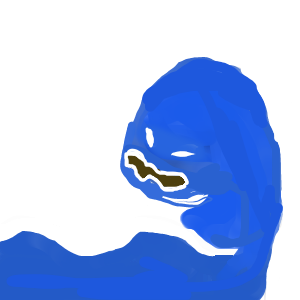
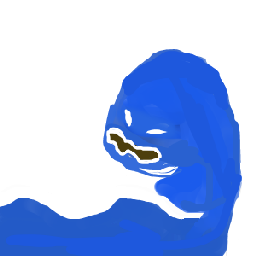
WFC now capable of reading multiple inputs
A  assets/backgrounds/overworld_tilesheet_with_numbers.png
A  assets/backgrounds/wfc_inputs/input.txt
R  assets/backgrounds/input.txt -> assets/backgrounds/wfc_inputs/input1.txt
M  assets/monsters/ember_boss.png
M  assets/monsters/ember_monster.png
M  assets/monsters/filth_monster.png
M  assets/monsters/flood_monster.png
M  assets/monsters/rad_monster.png
M  src/backgrounds.rs
M  src/battle.rs
M  src/main.rs
M  src/monster.rs
M  src/wfc.rs

diff --git a/src/wfc.rs b/src/wfc.rs
@@ -1,14 +1,17 @@
+use bevy::prelude::FromWorld;
 use bevy::prelude::info;
+use bevy::prelude::warn;
 use rand::distributions::WeightedIndex;
 use rand::prelude::Distribution;
 //use colored::Colorize;
 use rand::seq::SliceRandom;
 use std::collections::HashMap;
+use std::hash::Hash;
 // use std::env;
 use std::ops::Index;
 use std::ops::IndexMut;
 use std::thread;
-use std::{fs::File, io::Read};
+use std::{fs::File, fs::read_dir, io::Read};
 
 use rand::thread_rng;
 
@@ -21,16 +24,40 @@ use crate::backgrounds::{
 
 const MAX_REPICK_ATTEMPTS: usize = 20;
 
-//@param
-//required: filename of seeding textfile
-pub(crate) fn rulegen(infile: &str) -> HashMap<usize, Rule> {
+/// Resource to hold game-wide memory-resident information for procedural generation
+pub(crate) struct ProcGen {
+    /// Rules generated by initial rule generation
+    pub(crate) rules: HashMap<usize, Rule>,
+    // /// Tile frequencies generated by initial rule generation
+    // pub(crate) freqs: HashMap<usize, usize>
+}
+
+impl Default for ProcGen {
+    fn default() -> Self {
+        Self { rules: init_rules() }
+    }
+}
+
+/// Initialize rules by reading every input file in the directory
+/// 'assets/backgrounds/wfc_inpits/' and running rulegen on them.
+pub(crate) fn init_rules() -> HashMap<usize, Rule> {
+    let all_inputs = read_dir("assets/backgrounds/wfc_inputs").unwrap();
+    let mut freqs: HashMap<usize, usize> = HashMap::new();
+    let mut rules: HashMap<usize, Rule> = HashMap::new();
+
+    // Check all inputs
+    for input_file in all_inputs.into_iter() {
+        // Run rulegen on the input file given
+        rulegen(input_file.unwrap().path().to_str().unwrap(), &mut rules, &mut freqs);
+    }
+
+    rules
+}
+/// Apply rulegeneration to given rule and frequency set based on input read from infile
+pub(crate) fn rulegen(infile: &str, rules: &mut HashMap<usize, Rule>, freqs: &mut HashMap<usize, usize>) {
     let mut file = File::open(infile).unwrap();
     let mut contents = String::new();
     file.read_to_string(&mut contents).unwrap();
-
-    // Initialize tile and rulebook information
-    let mut freqs: HashMap<usize, usize> = HashMap::new();
-    let mut rules: HashMap<usize, Rule> = HashMap::new();
 
     // Board input is a text file of usize indexes used to map to a tile index in
     // the texture atlas
@@ -140,14 +167,12 @@ pub(crate) fn rulegen(infile: &str) -> HashMap<usize, Rule> {
     }
 
     //println!("rulegen done \n {:?}", rules);
-
-    rules
 }
 
 /// Generate a fixed (map) sized screen using wave function collapse
 /// and return a 2D vector of indexes into the texture atlas.
-pub(crate) fn wfc(seeding: Option<Vec<(usize, (usize, usize))>>) -> Vec<Vec<usize>> {
-    let rules = rulegen("assets/backgrounds/input.txt");
+pub(crate) fn wfc(seeding: Option<Vec<(usize, (usize, usize))>>, rules: HashMap<usize, Rule>) -> Vec<Vec<usize>> {
+    // let rules = rulegen("assets/backgrounds/wfc_inputs/input.txt");
 
     // Create the board with a specific height and width
     // (HEIGHT COMES FIRST because ROW MAJOR order)
@@ -196,6 +221,7 @@ pub(crate) fn wfc(seeding: Option<Vec<(usize, (usize, usize))>>) -> Vec<Vec<usiz
                 }
 
                 attempts += 1;
+                warn!("WFC could not collapse. Retrying, attempt {}.", attempts+1);
             }
 
             // Put the board contents into the result

diff --git a/src/backgrounds.rs b/src/backgrounds.rs
@@ -1,5 +1,5 @@
 use crate::player::{Player};
-use crate::wfc::wfc;
+use crate::wfc::{wfc, ProcGen};
 use bevy::prelude::*;
 use crate::world::{WorldMap, logical_to_rendering};
 
@@ -111,11 +111,14 @@ pub(crate) fn init_background(
     asset_server: Res<AssetServer>,
     mut texture_atlases: ResMut<Assets<TextureAtlas>>,
     mut world: ResMut<WorldMap>,
+    procgen: Res<ProcGen>,
 ) {
+
+    let rules = procgen.rules.clone();
 
     let starting_chunk = Chunk{
         position: (0, 0),
-        tiles: wfc(None),
+        tiles: wfc(None, rules),
     };
 
     let map_handle = asset_server.load(OVERWORLD_TILESHEET);
@@ -134,12 +137,15 @@ pub(crate) fn expand_map(
     asset_server: Res<AssetServer>,
     mut texture_atlases: ResMut<Assets<TextureAtlas>>,
     mut world: ResMut<WorldMap>,
+    procgen: Res<ProcGen>,
     mut player_query: Query<&mut Player>,
 ){
     // check for collision
     if player_query.is_empty(){
         error!("Couldn't find player");
     }
+
+    let rules = procgen.rules.clone();
 
     let player = player_query.single_mut();
     let player_chunk_pos = player.current_chunk;
@@ -183,7 +189,7 @@ pub(crate) fn expand_map(
             // }
             let new_chunk = Chunk{
                 position: (x, y),
-                tiles: wfc(Some(seed)),
+                tiles: wfc(Some(seed), rules.clone()),
                 // tiles: wfc(None),
             };
             // info!("New chunk generated at {:?}", new_chunk.position);
@@ -224,7 +230,7 @@ pub(crate) fn expand_map(
             // }
             let new_chunk = Chunk{
                 position: (x, y),
-                tiles: wfc(Some(seed)),
+                tiles: wfc(Some(seed), rules.clone()),
                 // tiles: wfc(None),
             };
             // info!("New chunk generated at {:?}", new_chunk.position);
@@ -265,7 +271,7 @@ pub(crate) fn expand_map(
             // }
             let new_chunk = Chunk{
                 position: (x, y),
-                tiles: wfc(Some(seed)),
+                tiles: wfc(Some(seed), rules.clone()),
                 // tiles: wfc(None),
             };
             // info!("New chunk generated at {:?}", new_chunk.position);
@@ -306,7 +312,7 @@ pub(crate) fn expand_map(
             // }
             let new_chunk = Chunk{
                 position: (x, y),
-                tiles: wfc(Some(seed)),
+                tiles: wfc(Some(seed), rules.clone()),
                 // tiles: wfc(None),
             };
             // info!("New chunk generated at {:?}", new_chunk.position);

diff --git a/src/battle.rs b/src/battle.rs
@@ -474,7 +474,7 @@ pub(crate) fn key_press_handler(
         enemy_boss) = enemy_monster.single_mut();
 
     if player_health.health <= 0 {
-        let next_monster = game_progress.next_monster(player_entity);
+        let next_monster = game_progress.next_monster_cyclic(player_entity);
         if next_monster.is_none() {
             info!("Your monster was defeated.");
             end_battle!(commands, game_progress, player_entity, enemy_entity);
@@ -552,7 +552,7 @@ pub(crate) fn key_press_handler(
             end_battle!(commands, game_progress, player_entity, enemy_entity);
         } else if player_health.health <= 0 {
             game_progress.num_living_monsters -= 1;
-            let next_monster = game_progress.next_monster(player_entity);
+            let next_monster = game_progress.next_monster_cyclic(player_entity);
             if next_monster.is_none() {
                 info!("Your monster was defeated.");
                 end_battle!(commands, game_progress, player_entity, enemy_entity);

diff --git a/src/monster.rs b/src/monster.rs
@@ -197,7 +197,7 @@ impl Default for MonsterStats {
 
 pub(crate) fn get_monster_sprite_for_type(elm: Element) -> String {
     match elm {
-        Element::Scav => String::from("monsters/stickdude.png"),
+        Element::Scav => String::from("monsters/scav_monster.png"),
         Element::Growth => String::from("monsters/stickdude.png"),
         Element::Ember => String::from("monsters/ember_monster.png"),
         Element::Flood => String::from("monsters/flood_monster.png"),
